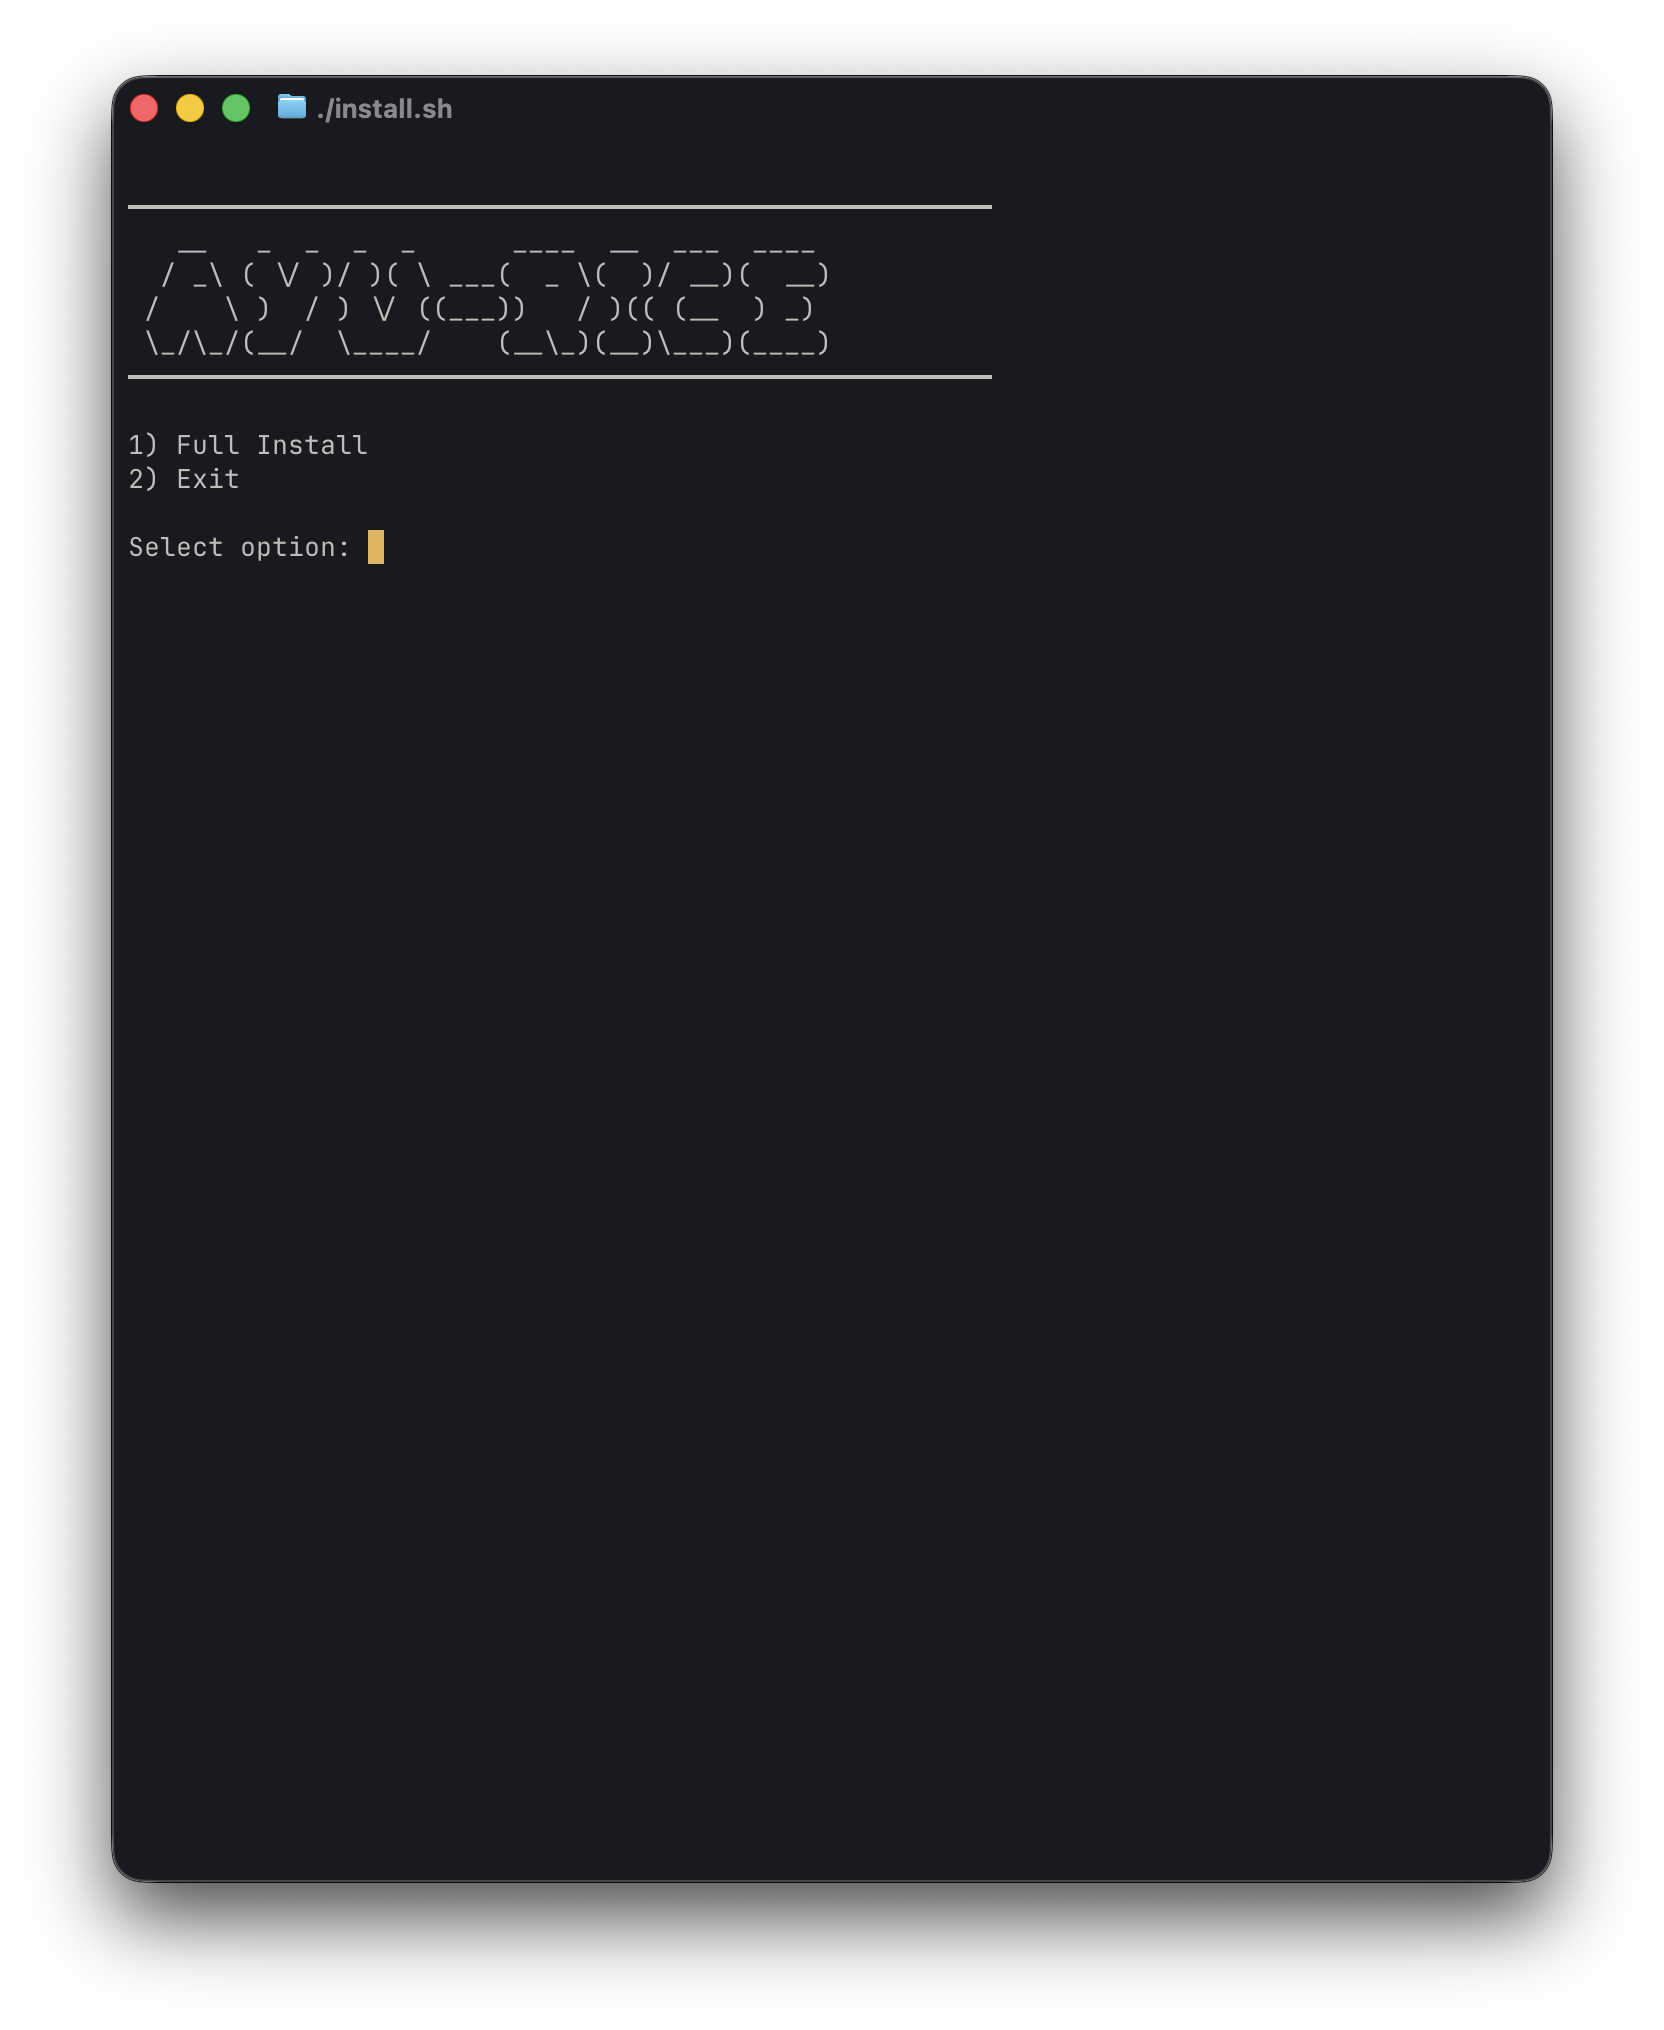
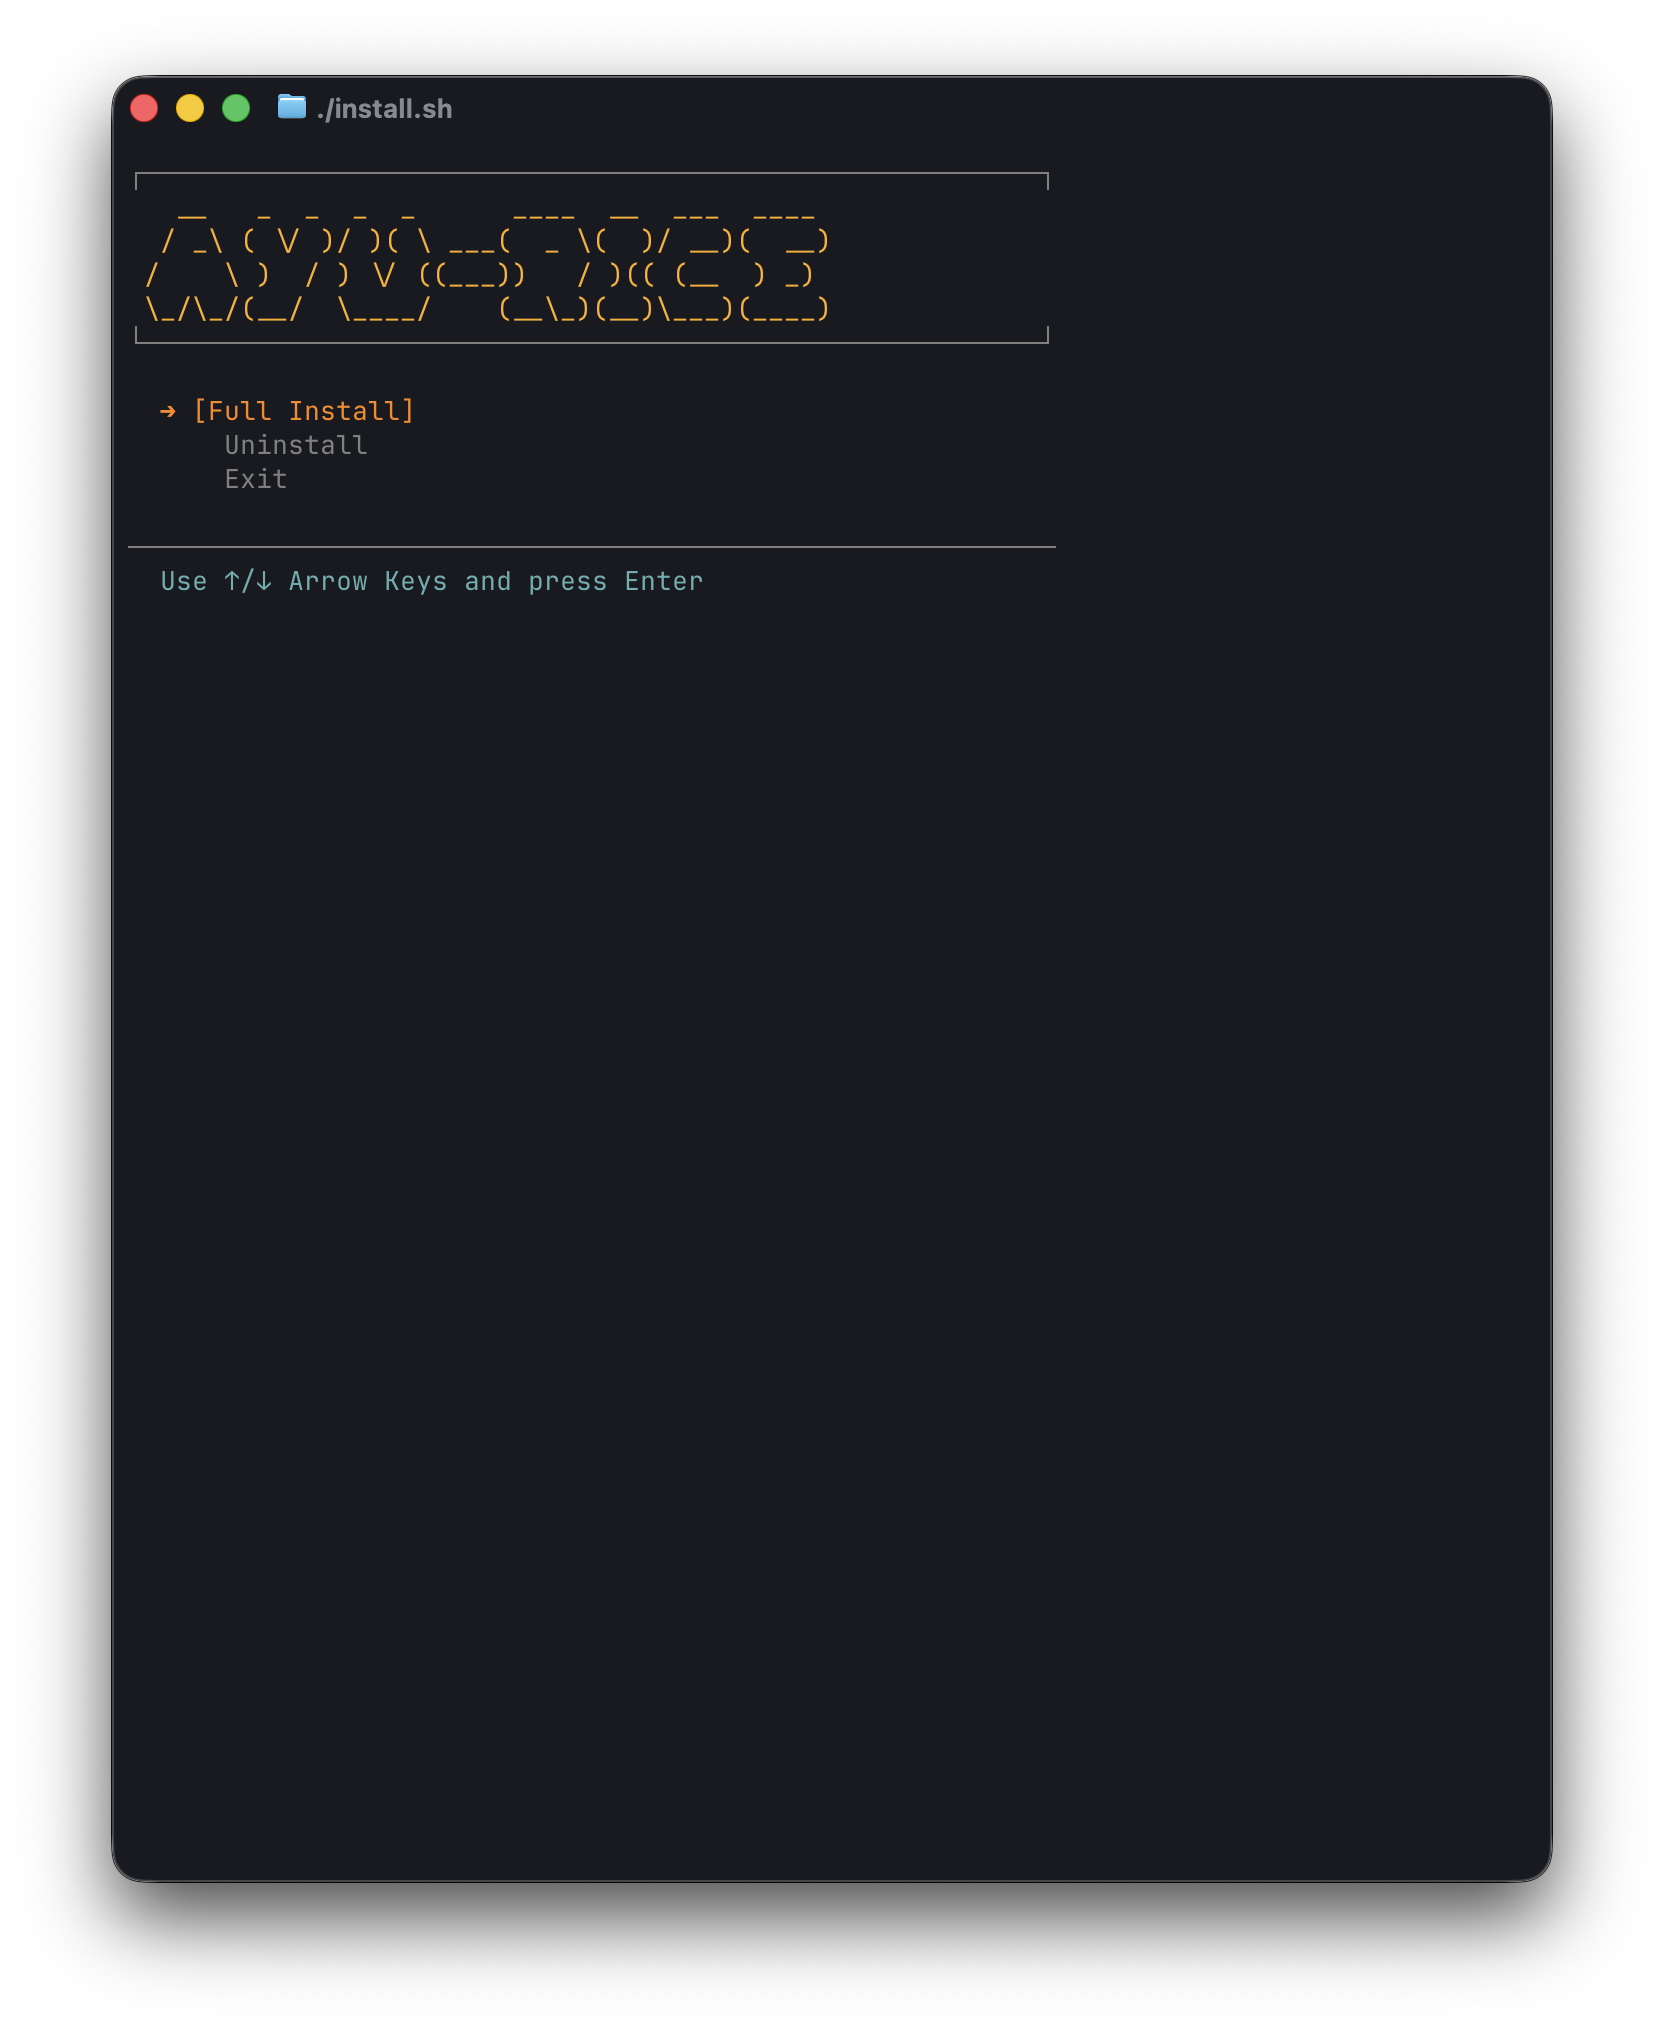
completed

Changed region(s): [[0.0938, 0.0931, 0.5, 0.3103], [0.375, 0.2793, 0.4062, 0.3103], [0.2188, 0.2483, 0.25, 0.2793]]

diff --git a/README.md b/README.md
@@ -139,9 +139,11 @@ git clone https://github.com/FuzzyGumnut/mac-rice.git
 
 cd mac-rice
 
-chmod +x uninstall.sh
+chmod +x install.sh
 
-./uninstall.sh
+./install.sh
+
+# and select uninstall
 ```
 
 The uninstaller will:
